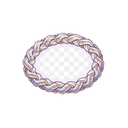
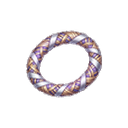
R304 — les six illustrations refaites sont propres, deux gaps de détection comblés
Les six régénérations sont intégrées. Cinq sont bonnes du premier coup côté sujet ; il restait des fonds
à retirer, et deux façons dont ma détection se faisait encore avoir.

GAP 1 — tolérance de regroupement trop serrée. Le damier peint alterne blanc (252) et gris clair (218) :
34 par canal, soit 102 sur la somme des trois — au-dessus du seuil de 90, donc les deux teintes n'étaient
pas regroupées et aucune n'atteignait les 70 % du contour. Seuil porté à 140.

GAP 2 — un fond peint ENFERMÉ dans un objet en anneau (collier, bracelet) est inatteignable par un
remplissage venu du bord : l'objet fait barrage. Nouvelle commande --vider-interieur, qui part du CENTRE
de l'image. Elle reste EXPLICITE et ne sera jamais automatique : chercher les régions enfermées de teinte
claire mangerait le corps d'une tunique blanche. Elle refuse d'agir si le centre n'est pas un fond clair
et neutre, ou si la zone débordait de l'anneau.

Un cas a résisté aux deux : item-plastron-feuilles portait un damier dont une case sur deux est RÉELLEMENT
transparente — un remplissage à 4 voisins ne peut pas le traverser. Nettoyé par la couleur (l'armure est
verte, le damier gris neutre : aucune ambiguïté), avec vérification visuelle avant d'écrire. C'est resté
une opération ponctuelle : passer le remplissage en 8 voisins pour ce seul fichier l'aurait laissé filer à
travers les contours des 149 autres.

Vérifié : audit d'art sans anomalie, tsc, 1412 tests, build, smoke de démarrage.

Changed region(s): [[0.1562, 0.2188, 0.8438, 0.7812]]

diff --git a/src/core/build.ts b/src/core/build.ts
@@ -3,4 +3,4 @@
 //
 // ⚠ C'EST ICI qu'on bumpe le build stamp à chaque livraison (il était auparavant écrit en dur dans
 // TitleScene). Un seul endroit, deux consommateurs.
-export const BUILD = 'R303'
+export const BUILD = 'R304'

diff --git a/scripts/generate_art.py b/scripts/generate_art.py
@@ -513,7 +513,11 @@ def detecter_plaque(im):
     c = Counter((r // 24, g // 24, b // 24) for r, g, b, a in anneau)
     teinte, _ = c.most_common(1)[0]
     ref = tuple(int(v * 24 + 12) for v in teinte)
-    proches = sum(1 for r, g, b, a in anneau if abs(r - ref[0]) + abs(g - ref[1]) + abs(b - ref[2]) <= 90)
+    # ⚠ TOLÉRANCE 140 ET PAS 90, sur la SOMME des trois canaux. Le damier peint alterne blanc (252) et
+    # gris clair (218) : l'écart vaut 34 par canal, soit 102 au total — au-dessus de 90, donc les deux
+    # teintes n'étaient PAS regroupées et aucune ne franchissait les 70 %. C'est ce qui a laissé passer
+    # item-plastron-feuilles une deuxième fois.
+    proches = sum(1 for r, g, b, a in anneau if abs(r - ref[0]) + abs(g - ref[1]) + abs(b - ref[2]) <= 140)
     if proches / len(anneau) < 0.7:
         return None
     return ref
@@ -628,6 +632,63 @@ def reparer_nommes(ids: list, slots: dict) -> None:
         print(f"  {iid}: plaque {couleur} retirée ({efface} px, {avant} → {reste} opaques)")
 
 
+def vider_interieur(ids: list, slots: dict) -> None:
+    """Vide le fond peint ENFERMÉ à l'intérieur d'un objet en anneau (collier, bracelet, couronne).
+
+    ⚠ POURQUOI ÇA NE PEUT PAS ÊTRE AUTOMATIQUE. Un remplissage depuis le bord de l'image n'atteint jamais
+    l'intérieur d'un anneau : l'objet fait barrage. Il faudrait donc chercher les régions ENFERMÉES de
+    teinte claire et neutre — mais le corps d'une tunique blanche en est une aussi, et on la mangerait.
+    On garde donc une commande explicite, appliquée à des objets qu'on a regardés : le remplissage part du
+    CENTRE de l'image, là où se trouve le trou de l'anneau.
+    """
+    from PIL import Image
+    from collections import deque
+
+    for iid in ids:
+        f = ART / f"item-{iid}.png"
+        if not f.exists():
+            print(f"  {iid}: fichier absent")
+            continue
+        im = Image.open(f).convert("RGBA")
+        px = im.load()
+        w, h = im.size
+        depart = px[w // 2, h // 2]
+        if depart[3] < 40:
+            print(f"  {iid}: le centre est déjà vide, rien à faire")
+            continue
+        if max(depart[:3]) - min(depart[:3]) > 60 or sum(depart[:3]) / 3 < 170:
+            print(f"  {iid}: le centre n'est pas un fond clair et neutre {depart[:3]} — refusé")
+            continue
+
+        def proche(c):
+            return c[3] > 0 and abs(c[0] - depart[0]) + abs(c[1] - depart[1]) + abs(c[2] - depart[2]) <= 160
+
+        avant = sum(im.split()[-1].histogram()[201:])
+        vus = bytearray(w * h)
+        file = deque([(w // 2, h // 2)])
+        vus[(h // 2) * w + (w // 2)] = 1
+        efface = 0
+        touche_bord = False
+        while file:
+            x, y = file.popleft()
+            if x in (0, w - 1) or y in (0, h - 1):
+                touche_bord = True
+            px[x, y] = (0, 0, 0, 0)
+            efface += 1
+            for dx, dy in ((1, 0), (-1, 0), (0, 1), (0, -1)):
+                nx, ny = x + dx, y + dy
+                if 0 <= nx < w and 0 <= ny < h and not vus[ny * w + nx] and proche(px[nx, ny]):
+                    vus[ny * w + nx] = 1
+                    file.append((nx, ny))
+        reste = sum(im.split()[-1].histogram()[201:])
+        if reste < 200 or reste < avant * 0.25:
+            print(f"  {iid}: REFUSÉ — la zone débordait de l'anneau ({avant} → {reste} opaques)")
+            continue
+        finaliser(im, slots.get(iid, "accessory")).save(f)
+        bord = " (a atteint le bord de l'image)" if touche_bord else ""
+        print(f"  {iid}: intérieur vidé, {efface} px{bord} — {avant} → {reste} opaques")
+
+
 def auditer(reparer: bool = False, slots: dict | None = None) -> int:
     """Contrôle qualité des illustrations d'objets ; --repair retire les plaques de fond et recadre.
 
@@ -672,6 +733,8 @@ def main():
     ap.add_argument("--force", action="store_true", help="regénère même si le PNG existe")
     ap.add_argument("--env", type=Path, default=ENV_DEFAUT, help=f"fichier d'identifiants (défaut : {ENV_DEFAUT})")
     ap.add_argument("--audit", action="store_true", help="contrôle qualité des illustrations déjà en place, puis sort")
+    ap.add_argument("--vider-interieur", nargs="*", default=None, metavar="ID",
+                    help="vide le fond peint enfermé dans un objet en anneau (collier, bracelet), puis sort")
     ap.add_argument("--repair-only", nargs="*", default=None, metavar="ID",
                     help="retire la plaque de fond de ces objets précis (contourne la détection), puis sort")
     ap.add_argument("--repair", action="store_true", help="avec --audit : retire les plaques de fond détectées")
@@ -683,6 +746,11 @@ def main():
         help="inclut aussi les chapeaux qui ont déjà un dessin vectoriel (pour les remplacer par une illustration)",
     )
     args = ap.parse_args()
+
+    if args.vider_interieur is not None:
+        slots = {it["id"]: it["slot"] for it in lire_items()}
+        vider_interieur(args.vider_interieur, slots)
+        return
 
     if args.repair_only is not None:
         slots = {it["id"]: it["slot"] for it in lire_items()}
